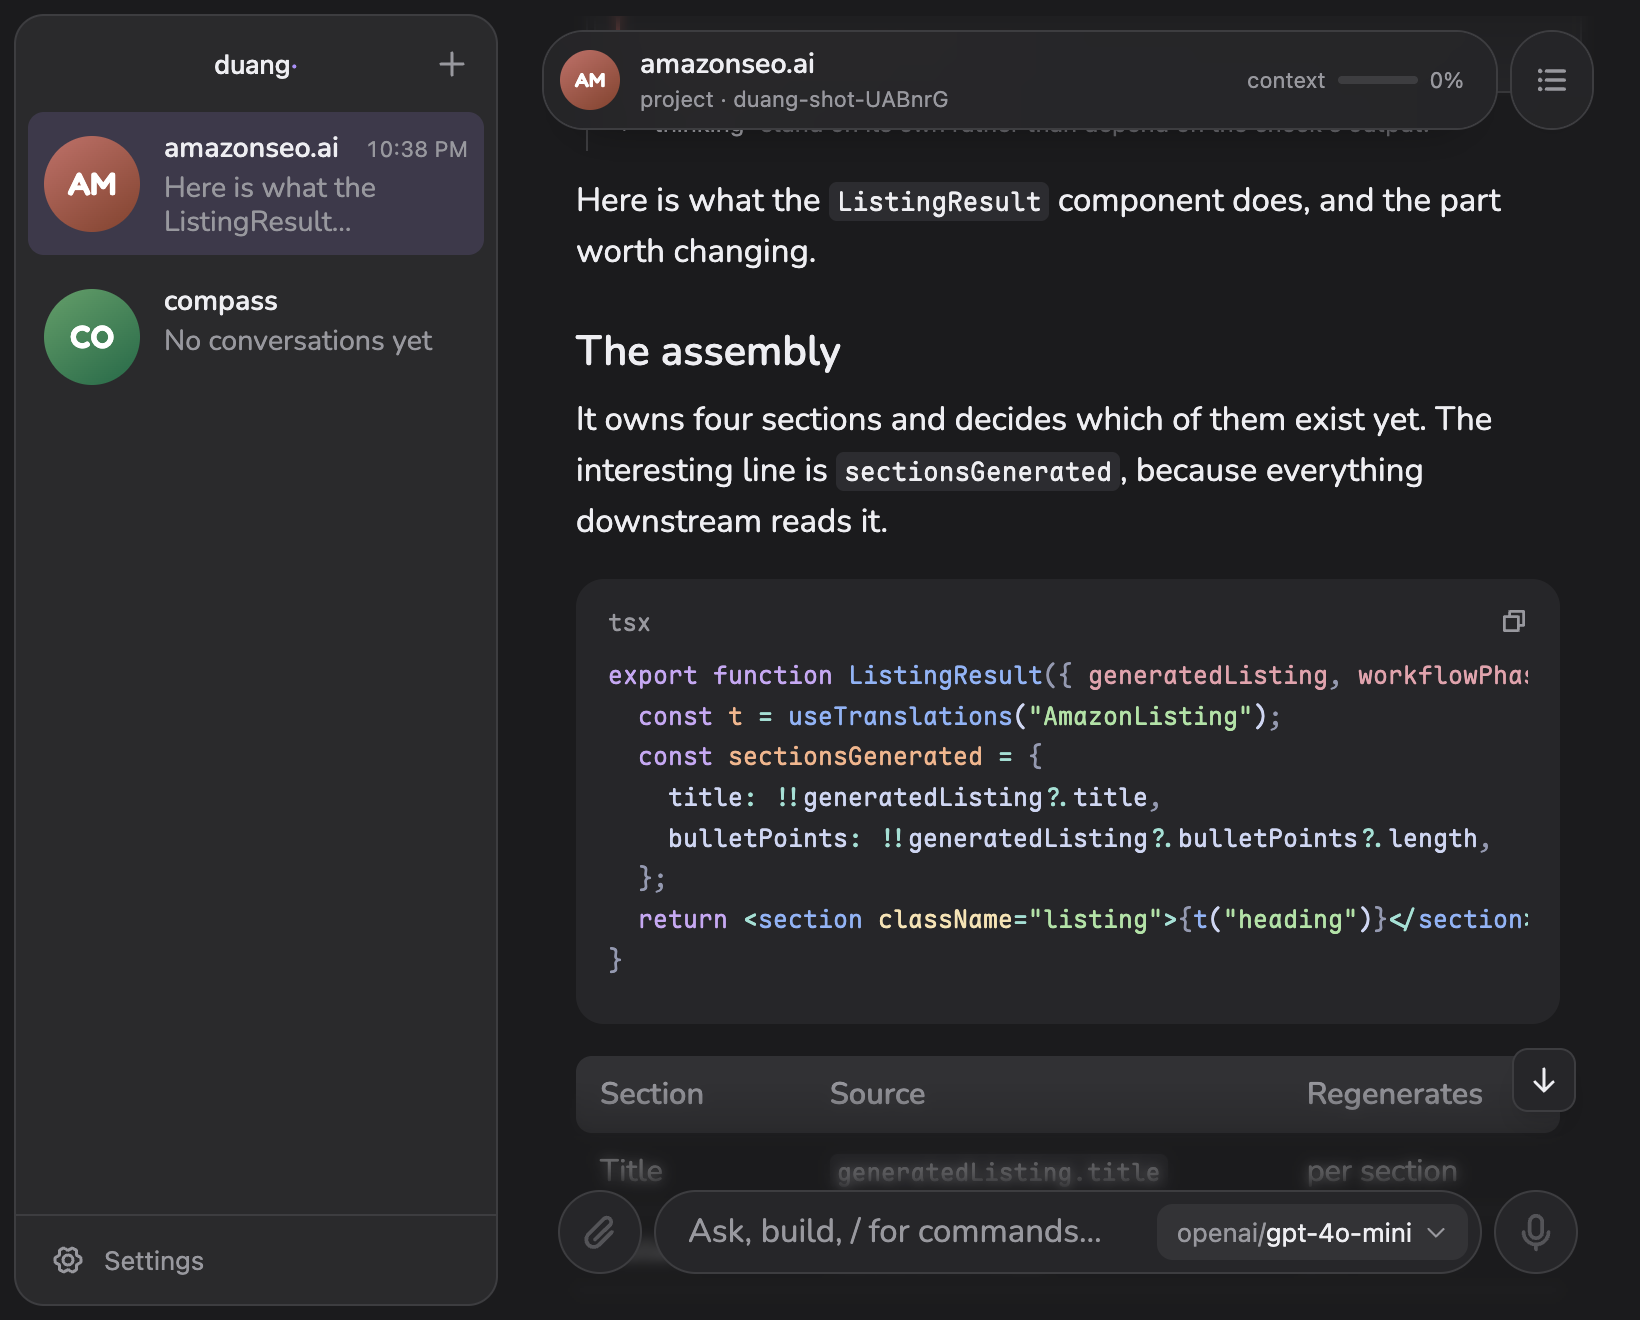
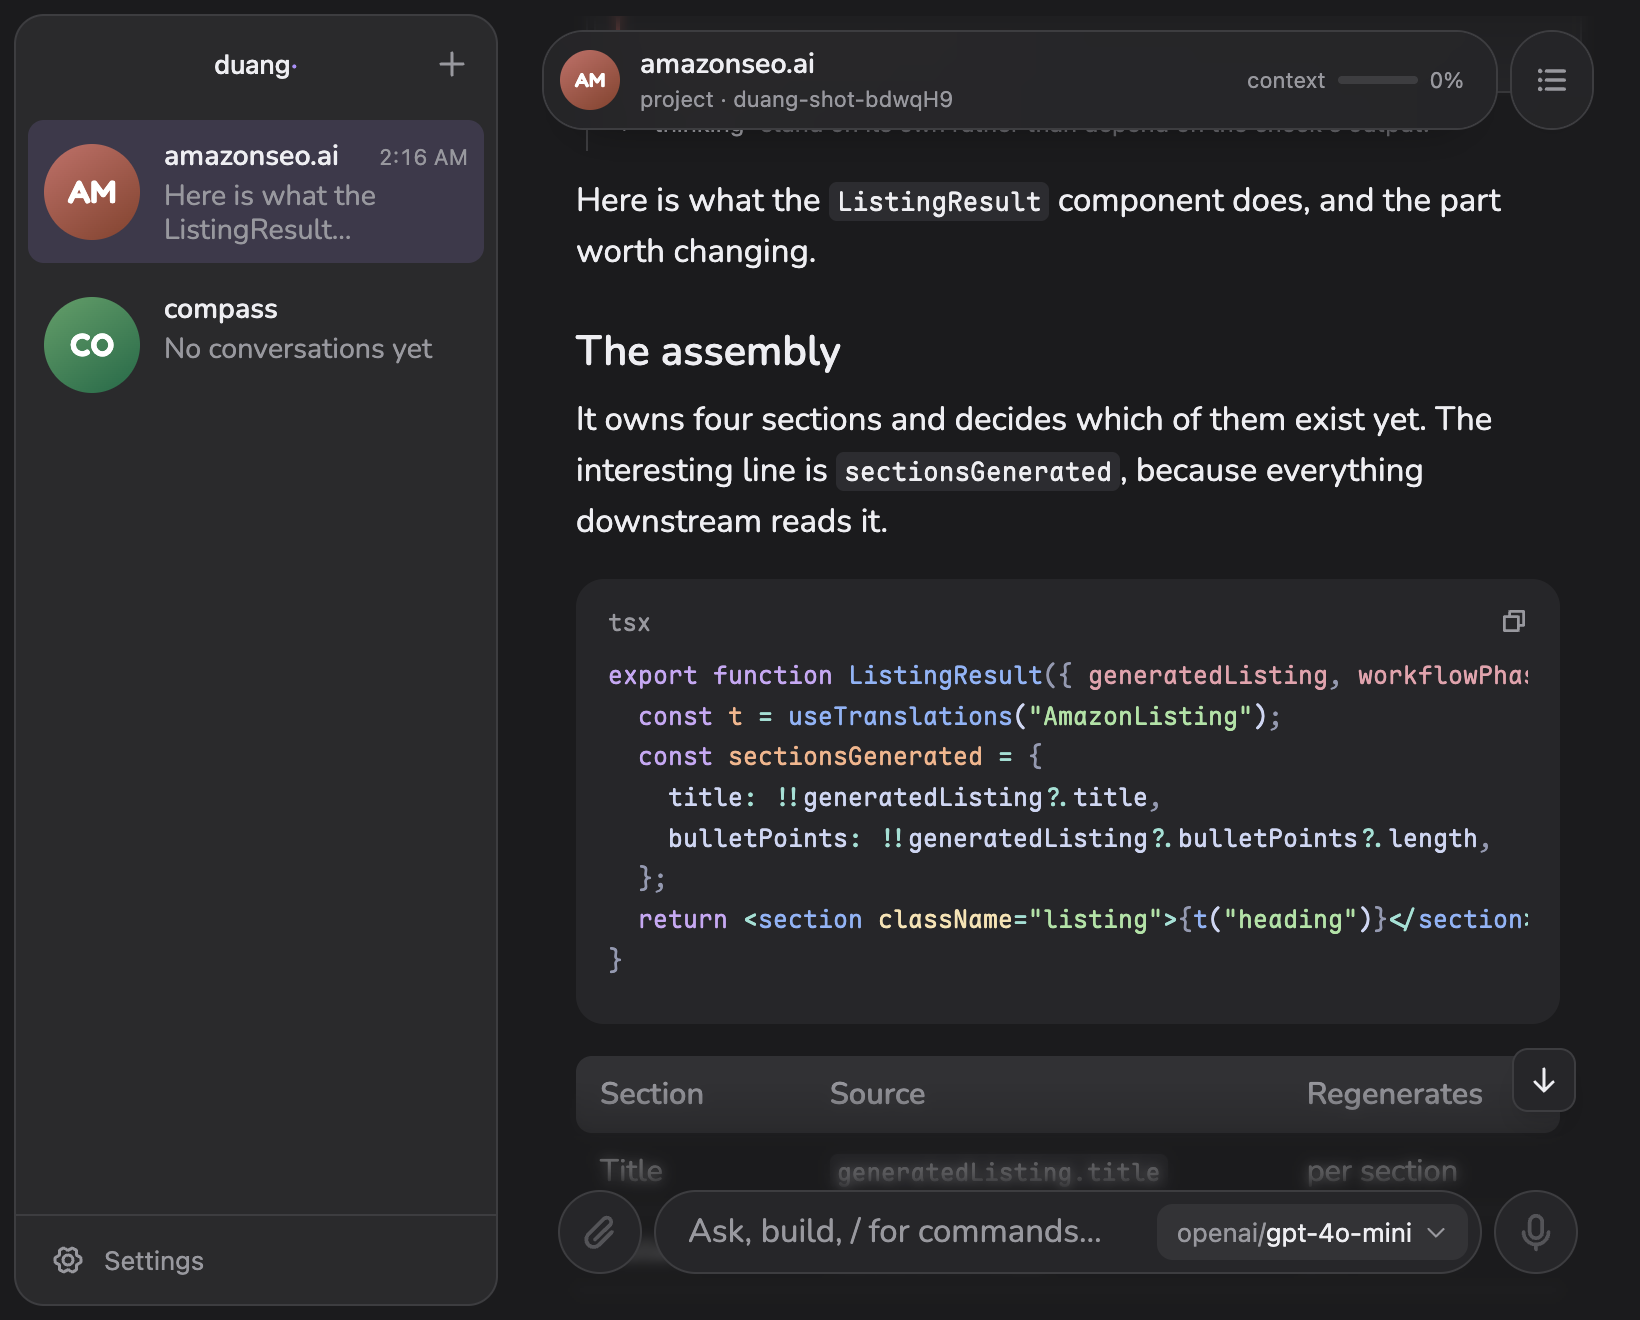
fix(ui): the first agent row keeps the top of its focus ring
The roster list clips what sticks out of it and had no padding above its first row, so the
focus ring (2px line, 2px offset) lost its top edge against the header. The list pads by the
ring's reach, top and bottom, and the smoke test checks the padding against the ring's computed
reach. Screenshots are regenerated: the roster starts 4px lower.

Changed region(s): [[0.0311, 0.0621, 0.2799, 0.3106], [0.5287, 0.0621, 0.5909, 0.0932]]

diff --git a/src/renderer/rows.tsx b/src/renderer/rows.tsx
@@ -163,8 +163,10 @@ export function Sidebar({
       </div>
 
       {/* One flat list with a hairline that starts where the text does, and rows inset by 6px so a
-          selected one is a rounded shape sitting in the column rather than a slab cut by its walls. */}
-      <div role="navigation" aria-label="Agents" className="flex-1 overflow-y-auto min-h-0 px-1.5" onKeyDown={onKeyDown}>
+          selected one is a rounded shape sitting in the column rather than a slab cut by its walls.
+          The 4px above and below are the focus ring's reach (2px line, 2px offset): the list clips
+          what sticks out of it, so the first row's ring would lose its top edge against the header. */}
+      <div role="navigation" aria-label="Agents" className="flex-1 overflow-y-auto min-h-0 px-1.5 py-1" onKeyDown={onKeyDown}>
         {agents.map((agent) => {
           const selected = agent.id === agentId;
           const state = states[agent.id] ?? "ready";
